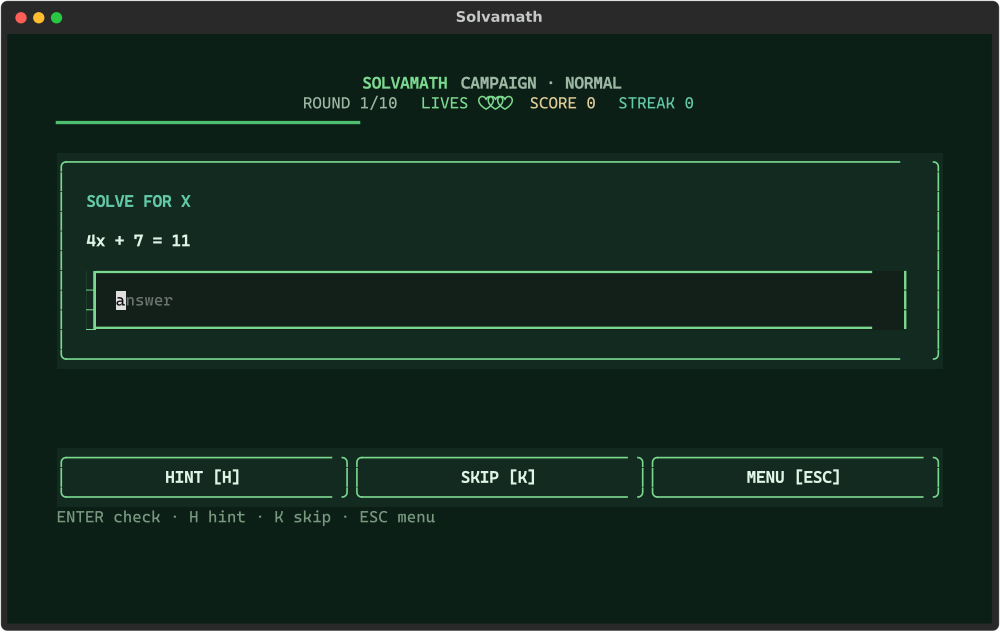
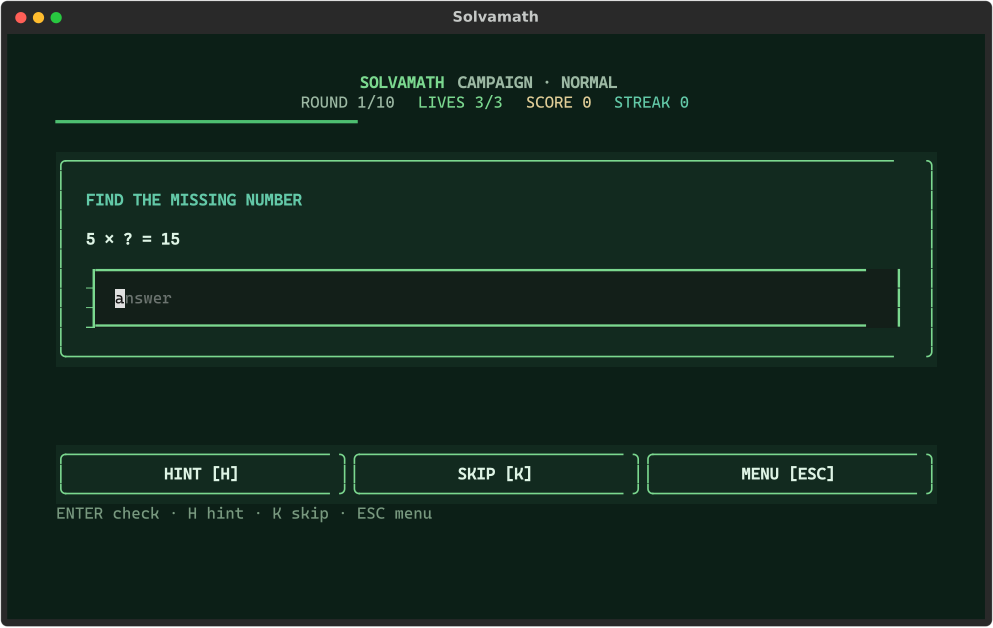
feat: Linux install fallback and hearts display

diff --git a/index.html b/index.html
@@ -16,7 +16,7 @@
 <meta property="og:image:height" content="300">
 <meta name="twitter:card" content="summary_large_image">
 <meta name="twitter:image" content="https://mark44928.github.io/Solvamath/docs/og.png">
-<link rel="icon" href="assets/logo.svg" type="image/svg+xml">
+<link rel="icon" href="assets/icon.svg" type="image/svg+xml">
 <link rel="stylesheet" href="assets/family.css">
 <script defer src="assets/family.js"></script>
 <style>

diff --git a/solvamath/screens.py b/solvamath/screens.py
@@ -193,7 +193,7 @@ class GameScreen(ThemedScreen):
     def _refresh_view(self) -> None:
         palette = self.app.palette
         game = self.game
-        lives = "∞" if game.mode.key == "zen" else "♥" * max(0, game.lives)
+        lives = "ZEN" if game.mode.key == "zen" else f"{max(0, game.lives)}/{game.max_lives}"
         title = Text()
         title.append("SOLVAMATH ", style=f"bold {palette.accent}")
         title.append(f"{game.mode.label.upper()} · {game.difficulty.label.upper()}", style=palette.muted)

diff --git a/tests/test_ui.py b/tests/test_ui.py
@@ -24,6 +24,7 @@ async def test_menu_and_game_screen_boot(tmp_path: Path) -> None:
         await pilot.pause()
         assert isinstance(app.screen, GameScreen)
         screen = app.screen
+        assert "LIVES 3/3" in str(screen.query_one("#status-line").render())
         screen.query_one("#answer").value = screen.game.puzzle.answer
         await pilot.press("enter")
         await pilot.pause()

diff --git a/README.md b/README.md
@@ -7,7 +7,7 @@ Seven puzzle families, four run modes, four difficulties, a timer, streaks,
 hints, achievements and a persistent local record — all in a fast TUI.
 
 [![CI](https://github.com/Mark44928/Solvamath/actions/workflows/ci.yml/badge.svg)](https://github.com/Mark44928/Solvamath/actions/workflows/ci.yml)
-[![Pages](https://img.shields.io/badge/play-GitHub%20Pages-7DBBFF)](https://mark44928.github.io/Solvamath/)
+[![Pages](https://img.shields.io/badge/site-GitHub%20Pages-7DBBFF)](https://mark44928.github.io/Solvamath/)
 ![Python](https://img.shields.io/badge/python-3.10%2B-blue)
 ![Textual](https://img.shields.io/badge/Textual-1.0%2B-5e5ce6)
 ![License](https://img.shields.io/badge/license-MIT-green)
@@ -20,6 +20,19 @@ hints, achievements and a persistent local record — all in a fast TUI.
 pipx install git+https://github.com/Mark44928/Solvamath
 solvamath
 ```
+
+Or use the prefix-aware installer:
+
+```bash
+git clone https://github.com/Mark44928/Solvamath
+cd Solvamath
+bash install.sh
+solvamath
+```
+
+It creates an isolated venv and links into `$PREFIX/bin` on Termux or
+`~/.local/bin` on Linux. `--prefix DIR` overrides the launcher directory;
+`--uninstall` removes the link and managed venv.
 
 Or from a clone:
 
